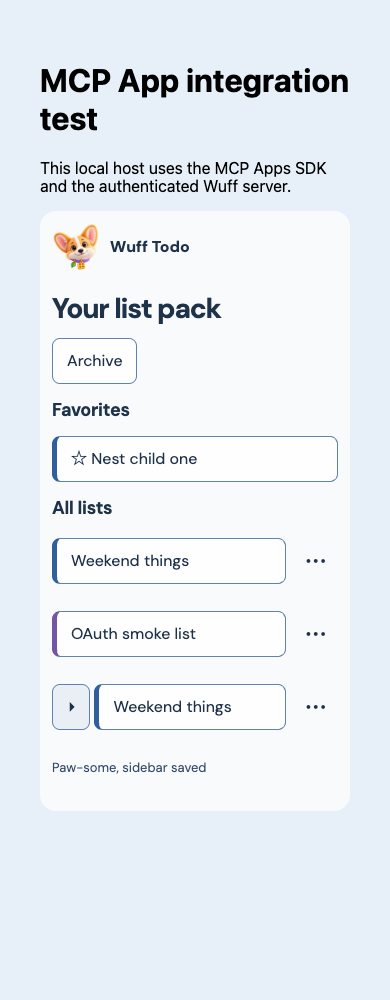
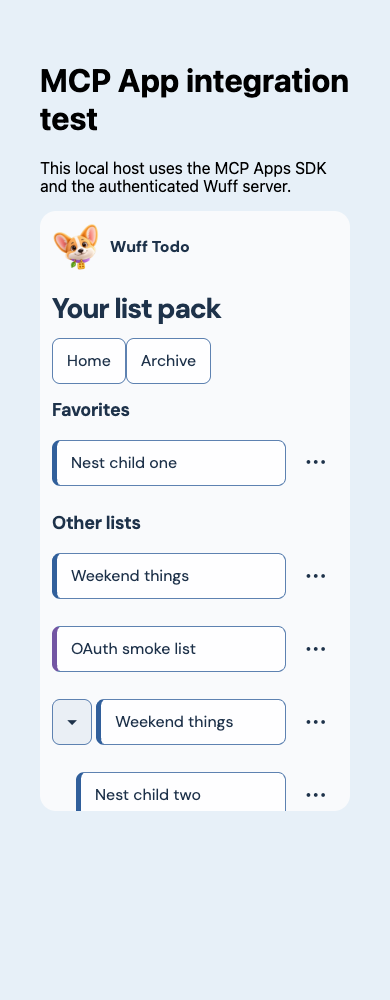
Show favorite lists only once in navigation

diff --git a/apps/web/src/mcp-app/main.ts b/apps/web/src/mcp-app/main.ts
@@ -2292,34 +2292,38 @@ function renderCatalog() {
     }),
   );
   const favorites = catalog.filter((list) => list.favorite && !list.archived);
+  let favoriteSection: HTMLElement | null = null;
   if (!archive && favorites.length) {
-    const section = element("nav");
-    section.setAttribute("aria-label", "Favorite lists");
-    section.append(element("h2", "Favorites"));
-    for (const list of favorites) {
-      const shortcut = button(
-        `☆ ${list.title}${list.shared ? " · Shared" : ""}`,
-        () => void call("show_list", { listId: list.id }),
-      );
-      shortcut.className = "wuff-button list";
-      shortcut.style.borderLeft = `5px solid ${listPalette[list.color].accent}`;
-      section.append(shortcut);
-    }
-    root.append(section, element("h2", "All lists"));
+    favoriteSection = element("nav");
+    favoriteSection.setAttribute("aria-label", "Favorite lists");
+    favoriteSection.append(element("h2", "Favorites"));
+    root.append(favoriteSection);
   }
   const visible = catalog.filter((l) => l.archived === archive);
   const groups = sidebarGroups(catalog, archive);
-  const rows = groups.flatMap(({ list, children }) => [
-    { list, siblings: groups.map((group) => group.list), depth: 0, children },
-    ...(!list.sidebarCollapsed
-      ? children.map((child) => ({
-          list: child,
-          siblings: children,
-          depth: 1,
+  if (favoriteSection && groups.length)
+    root.append(element("h2", "Other lists"));
+  const rows = [
+    ...(!archive
+      ? favorites.map((list) => ({
+          list,
+          siblings: favorites,
+          depth: 0,
           children: [] as ListSummary[],
         }))
       : []),
-  ]);
+    ...groups.flatMap(({ list, children }) => [
+      { list, siblings: groups.map((group) => group.list), depth: 0, children },
+      ...(!list.sidebarCollapsed
+        ? children.map((child) => ({
+            list: child,
+            siblings: children,
+            depth: 1,
+            children: [] as ListSummary[],
+          }))
+        : []),
+    ]),
+  ];
   for (const { list, siblings, depth, children } of rows) {
     const i = siblings.findIndex((item) => item.id === list.id);
     const row = element("div");
@@ -2444,7 +2448,7 @@ function renderCatalog() {
         "Only your sidebar changes. Tasks, subtasks and sharing stay with each list.",
       ),
     );
-    root.append(row);
+    (list.favorite && favoriteSection ? favoriteSection : root).append(row);
   }
   if (!visible.length)
     root.append(

diff --git a/scripts/verify-list-favorites-ui.ts b/scripts/verify-list-favorites-ui.ts
@@ -101,6 +101,13 @@ try {
       exact: true,
     }),
   ).toBeVisible();
+  const tree = page.getByRole("navigation", { name: "Lists", exact: true });
+  await expect(
+    tree.getByRole("button", { name: "Repot plants Shared list", exact: true }),
+  ).toHaveCount(0);
+  await expect(
+    page.locator('.workspace-sidebar [aria-current="page"]'),
+  ).toHaveCount(1);
   await page.reload();
   await expect(favorites).toBeVisible();
   assert.deepEqual((await getListOrder(actor)).nesting, [
@@ -206,6 +213,31 @@ try {
   });
   await page.reload();
   await expect(favorites).toBeVisible();
+  // Favoriting a parent keeps its unstarred children reachable, without changing nesting.
+  await reorderLists(actor, {
+    ...(await getListOrder(actor)),
+    favoriteListIds: [parent.id],
+    operationId: op(),
+  });
+  await page.reload();
+  await expect(
+    favorites.getByRole("button", { name: "Plant to-dos", exact: true }),
+  ).toBeVisible();
+  await expect(
+    tree.getByRole("button", { name: "Plant to-dos", exact: true }),
+  ).toHaveCount(0);
+  await expect(
+    tree.getByRole("button", { name: "Repot plants Shared list", exact: true }),
+  ).toBeVisible();
+  assert.deepEqual((await getListOrder(actor)).nesting, [
+    { listId: child.id, parentListId: parent.id },
+  ]);
+  await reorderLists(actor, {
+    ...(await getListOrder(actor)),
+    favoriteListIds: [child.id],
+    operationId: op(),
+  });
+  await page.reload();
   // An editor can favorite without gaining owner management permissions.
   const editorContext = await browser.newContext();
   const editorLogin = await editorContext.request.post(

diff --git a/tests/list-nesting.test.ts b/tests/list-nesting.test.ts
@@ -78,3 +78,36 @@ test("older reorder payloads omit hierarchy rather than clearing it", () => {
   assert.equal(value.nesting, undefined);
   assert.equal(value.collapsedListIds, undefined);
 });
+
+test("active favorites appear only in Favorites while remaining children stay reachable", () => {
+  const lists = [entry("parent"), entry("child", "parent"), entry("other")];
+  lists[1].favorite = true;
+  assert.deepEqual(
+    sidebarGroups(lists, false).map((g) => [
+      g.list.id,
+      g.children.map((c) => c.id),
+    ]),
+    [
+      ["parent", []],
+      ["other", []],
+    ],
+  );
+  lists[0].favorite = true;
+  lists[1].favorite = false;
+  assert.deepEqual(
+    sidebarGroups(lists, false).map((g) => g.list.id),
+    ["child", "other"],
+  );
+  assert.equal(lists[1].parentListId, "parent");
+  lists[0].favorite = false;
+  assert.deepEqual(
+    sidebarGroups(lists, false)[0].children.map((c) => c.id),
+    ["child"],
+  );
+  lists[0].favorite = true;
+  lists[0].archived = true;
+  assert.deepEqual(
+    sidebarGroups(lists, true).map((g) => g.list.id),
+    ["parent"],
+  );
+});

diff --git a/packages/contracts/src/index.ts b/packages/contracts/src/index.ts
@@ -309,7 +309,9 @@ export function accessibleListNesting(ids: string[], nesting: ListNesting[]) {
   );
 }
 export function sidebarGroups(lists: ListSummary[], archived: boolean) {
-  const visible = lists.filter((list) => list.archived === archived);
+  const visible = lists.filter(
+    (list) => list.archived === archived && (archived || !list.favorite),
+  );
   const visibleIds = new Set(visible.map((list) => list.id));
   const parent = (list: ListSummary) =>
     list.parentListId && visibleIds.has(list.parentListId)

diff --git a/scripts/verify-desktop-workspace.ts b/scripts/verify-desktop-workspace.ts
@@ -262,7 +262,7 @@ try {
   }
   await page.setViewportSize({ width: 1440, height: 500 });
   await page
-    .getByRole("navigation", { name: "Lists", exact: true })
+    .getByRole("navigation", { name: "Favorite lists", exact: true })
     .getByRole("button", { name: "Plant care", exact: true })
     .click();
   await expect(

diff --git a/docs/verification.md b/docs/verification.md
@@ -264,3 +264,11 @@ Vercel CLI production deployment `dpl_HzxLuEUaeiKiS1VRNNse8YjdRJzT` is Ready, al
 Source `e788113` was committed/pushed. A follow-up harness pass additionally opened/collapsed the navigation at both 320px and 390px, measured 44px list targets and no horizontal document overflow, and captured `sidebar-mobile-{320,390}.png`. GitHub Verify `40031660523` and Native test builds `40031660661` remain blocked before running any steps; the check annotation confirms the account payment/spending limit condition. Local checks above passed; no new downloadable native artifact is claimed.
 
 CLI deployment `dpl_CzgUU3NiiUZWdsmoeM2N3fEgm84g` is Ready and aliased to the canonical production URL, with `fra1` runtime outputs. Authenticated production Chrome confirmed Home → Favorites → list-pack DOM order and existing shared list cues. Home, favorite and list icons all measured x=28; list rows measured 44px; the account footer ended at y=874 within the 894px viewport; no horizontal document overflow or captured console errors occurred. This was navigation/read-only verification, with no production content or preference writes. [Released sidebar](screenshots/sidebar-production.png).
+
+## Single-entry favorite navigation — October 24, 2026
+
+The user superseded the duplicate-shortcut design: active starred lists now appear only under Favorites, with one active navigation entry. The shared sidebar projection omits them from the regular tree; unstarred children of a starred parent remain reachable at the tree's top level without changing saved nesting/collapse/order or shared content. Unstarring restores the saved tree placement. Archive still lists archived favorites. The embedded MCP catalog uses the same projection and retains the full action menu on each favorite entry.
+
+All 90 unit tests passed, including favorite-child exclusion, starred-parent child reachability, unchanged saved parent references, unstar restoration and archived favorites. Workspace/root TypeScript, optimized web/MCP/prototype and native frontend builds passed. The isolated-development website harness passed favorite add/reload, a single active sidebar entry, absent duplicate in the tree, starred-parent/unstarred-child reachability, nesting preservation, original owner draft/retry/archive/restore/editor cases and 320/390/1280px layouts. Fixture data and synthetic sidebar preferences were restored. Production and embedded SDK-host evidence follows after completion.
+
+A real local MCP Apps SDK host passed single favorite entry counting, stale Add-to-favorites intent, reload, navigation with the parent collapsed, opening a favorite, removal through its retained action menu and 390/1280px layouts without page errors. The harness waited for the parent-collapse save to finish before issuing Remove; these are distinct mutations. Screenshots `list-favorites-mcp-*` show the deduplicated catalog. This is local SDK-host evidence, not named production ChatGPT/Codex-host certification.

diff --git a/docs/personal-list-favorites.md b/docs/personal-list-favorites.md
@@ -4,7 +4,7 @@ Selected and released on the website/MCP October 23, 2026. Favorites are persona
 
 ## Behavior and contract
 
-Use **List settings → Your sidebar → Add to favorites / Remove from favorites**. Owners and editors can favorite any accessible list. A Favorites section appears above the regular tree when there are active favorites; shortcuts follow the existing sidebar order and preserve the shared-list cue and list color. Opening a child favorite directly opens that list, even with its parent collapsed. The original tree location and collapse preference remain intact. Favorites do not include a parent's children automatically.
+Use **List settings → Your sidebar → Add to favorites / Remove from favorites**. Owners and editors can favorite any accessible list. A Favorites section appears above the regular tree when there are active favorites; shortcuts follow the existing sidebar order and preserve the shared-list cue and list color. Opening a child favorite directly opens that list, even with its parent collapsed. Each active list appears once: starred lists appear in Favorites and are omitted from the regular tree. If a starred parent has unstarred children, those children appear at the top level of the regular tree. The saved tree location and collapse preference remain intact; removing a star restores the original tree placement. Archived favorites remain visible in Archive. Favorites do not include a parent's children automatically.
 
 Favorites belong to the current account. List ownership, sharing, content, tasks/subtasks and shared list versions never change. Archived favorites remain saved but disappear from the active Favorites section until restored. Deletion and revoked access remove references from authorized reads; no inaccessible title or ID is returned.
 
